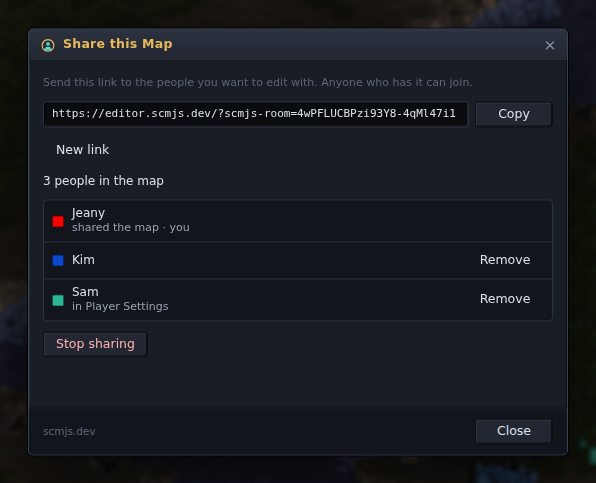
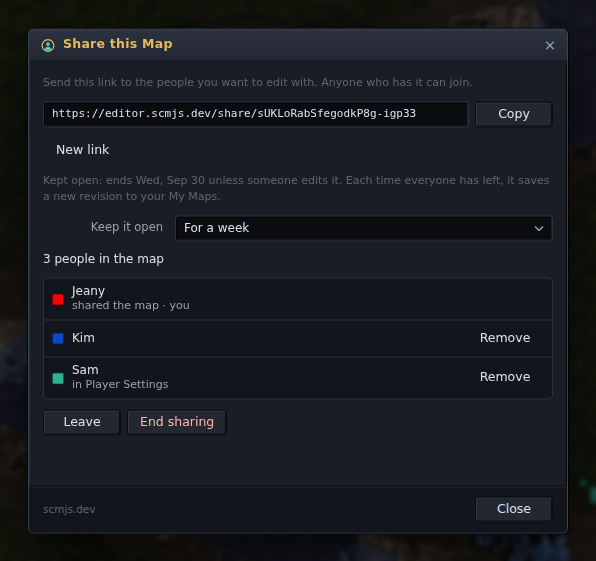
Guide: pictures of maps kept open, and link cards
Three new pictures (Share this Map with Keep it open, the Account dialog's
Shared maps list, My Maps with a shared map) and the three shared-map ones
taken again; the guide says what a pasted link shows. The stand-in server
keeps maps open and lists them; the screenshot script takes the scmjs.dev
plugin as the editor pins it, or a local build with --plugin.

The hosting note records the proxy, the preview worker and why the
nightly editor stays grey; index.html marks the id the worker looks for.

diff --git a/index.html b/index.html
@@ -167,6 +167,8 @@
   </head>
   <body>
     <div id="root"></div>
+    <!-- The link-preview worker in front of editor.scmjs.dev only adds its card tags to a page with
+         this id in it (scm-js/cloudflare-link-previews): renaming it stops the cards. -->
     <div id="boot-splash" role="presentation">
       <div class="card">
         <div class="center">

diff --git a/README.md b/README.md
@@ -1775,6 +1775,11 @@ the clipboard. The link always opens the version you just saved, so a link you h
 posted somewhere does not change under the people who follow it; tick *Let the link
 follow my later saves* for one that opens whatever you save to that map next.
 
+Pasted into Discord, Slack, a forum or most other places that show previews, a link to
+the web editor shows a card with the map's name, who shared it, its tileset, size and
+players, and its picture. A link that has been removed shows a card saying it no longer
+works.
+
 In **My Maps**, the *Links* part of a map lists its links, how many times each was
 opened, and **Remove** for each; a removed link stops working at once and the map stays.
 *Link to #3* makes a link to the revision you are looking at, *Link to the newest* one
@@ -1823,12 +1828,16 @@ Sharing goes through scmjs.dev: the person who shares needs a signed-in
 
 ### Sharing a map
 
-![The Share dialog while the map is shared: the link, the three people in it, and Stop sharing](docs/images/share-dialog.webp)
+![The Share dialog while the map is shared: the link, how long it is kept open, the three people in it, and Leave and End sharing](docs/images/share-dialog.webp)
 
 **Account ▸ Share this Map…** asks for a name for the map (its own name to start with) and
 how long to **keep it open**, and copies it to scmjs.dev when you press **Start sharing**.
 The dialog then shows the link: **Copy** puts it on the clipboard for you to send. A cell
 appears in the status bar — *Shared · 3 people* — and clicking it opens the dialog again.
+Pasted into Discord, Slack or a forum, the link shows a card with the map's name, who
+shared it and, for a map kept open, its picture.
+
+![Share this Map before sharing starts: the name, Keep it open set to For a week, and what that means](docs/images/share-keep.webp)
 
 *Keep it open* decides what happens when people leave:
 
@@ -1867,10 +1876,14 @@ since that is what anyone can open.
 
 ### Your shared maps
 
+![The Shared maps part of the Account dialog: two maps kept open and one shared until everyone leaves, with who is in each, the last edit and when it ends](docs/images/share-account.webp)
+
 The **Shared maps** part of **Account ▸ Account…** lists every map you are sharing: who is
 in it now, the last edit and who made it, and when it ends. Each has **Join**, **Copy
 link**, **New link**, how long to keep it open, and **End sharing**. When you are already
 sharing five, Share this Map… shows the same list so you can end one first.
+
+![My Maps with a map kept open: marked Shared · 3 editing, with Put #1 into the shared map and End sharing](docs/images/share-mymaps.webp)
 
 In **My Maps** a map kept open says so (*Shared · 2 editing*, or when it ends), and
 **Join** opens it with whoever is there; **Open** still gives you a revision on its own.

diff --git a/.claude/internals/desktop-releases.md b/.claude/internals/desktop-releases.md
@@ -73,7 +73,19 @@ say this, which is why it is here. The
 carrying the `CNAME` a branch-served Pages site keeps its domain in. Both Pages sites answer an
 unknown path with the bundle's `404.html`, which the `scmjs-404` step in `vite.config.ts` copies
 from `index.html` — that is how a shared map's `/share/<invite>` link opens the editor (status 404,
-but the page runs). nginx and the dev server fall back to `index.html` on their own. The nightly prerelease's notes
+but the page runs).
+
+**`editor.scmjs.dev` is proxied through Cloudflare (orange cloud, SSL Full, since 2026-09-23)**
+for the link-preview Worker (private repo `scm-js/cloudflare-link-previews`, deployed as
+`scmjs-link-previews`). The Worker runs only on `/map/*` and `/share/*` (zone routes, fail open):
+it fetches the Pages page, asks `api.scmjs.dev/v1/previews/…` what the link is, writes Open Graph
+tags into the head and makes the status 200. It rewrites only a page containing
+`id="boot-splash"`, so **keep that id in `index.html`**, or the cards silently stop. GitHub's own
+"File not found" (a deploy without `404.html`, like tag v0.4.0) passes through untouched.
+**`nightly.editor.scmjs.dev` must stay grey**: the free Universal certificate is `scmjs.dev` +
+`*.scmjs.dev`, one level only, and proxying the two-level name failed the TLS handshake outright
+(tried 2026-09-23). Its routes exist but do nothing. After a proxy change, check the Pages
+settings still show the custom domain's certificate as fine (Pages renews by seeing its own IPs). nginx and the dev server fall back to `index.html` on their own. The nightly prerelease's notes
 carry a paragraph linking that site — the release page is the only thing most people open, and the
 site is the same run's zip, so it is the cheapest way to try a nightly. That paragraph is written
 only when `NIGHTLY_DOMAIN` *and* `NIGHTLY_PAT` are both set (`SITE:` in the `release` job's env is
